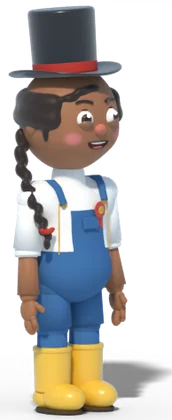
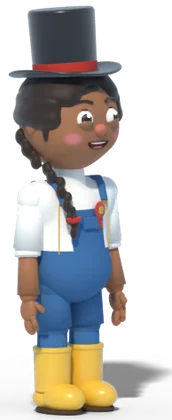
Shop: Rosie's Show day picture made again with her hair under the top hat (as the game's own model has it)
Claude-Session: https://claude.ai/code/session_019sVPTkk8NWGF5qLvLgiKew

Changed region(s): [[0.0581, 0.3405, 0.5523, 0.65], [0.1163, 0.1548, 0.6977, 0.2786], [0.3488, 0.5881, 0.407, 0.619]]

diff --git a/stylized/character/farmer.py b/stylized/character/farmer.py
@@ -1162,6 +1162,11 @@ if __name__ == '__main__':
     R_ = int(os.environ.get('RES', 500))
     scn = reset()
     root, hd = build(look, pose, expr)
+    # (27 Nov 2026, Audrey, the shop's Show day picture: "Looks like the farmer is half bald": Rosie's hair over the top of
+    # her head under a bought hat, as the 3D game has had it since 7 Nov (export_farmer.py), in the pictures too)
+    if look == 'f' and OF().get('hat') not in (None, 'straw', 'sunhat'):
+        hobj = [o for o in hd.children if o.name.startswith('headm')][0]
+        hair_top(look, hd, HC.surface_finder(hobj), mats(look))
     HC.shadow_catcher()
     lighting(scn, sun_dir=(0.5, -0.6, 0.85), sun=3.4)
     bpy.context.view_layer.update()

diff --git a/web3d/README.md b/web3d/README.md
@@ -5795,3 +5795,4 @@ Five runs at 402x874, about ten days each, no page errors in any:
 - 27 Nov 2026, 16:53, her choice "Fix the button first (Recommended)" (her note: "click on the CTA watch them playing but nothing happened. Maybe when someone click it does a focus on 1 chicken on the coop that immediately goes and play"): **"Watch them play" fixed**. The bird had been picked when the card opened and sent without a second look, so if she'd found something else to do (or couldn't get there) the tap did nothing. Now (main.js `watchPlay`), at the tap: a grown bird of the coop free there and then (one at play elsewhere is called over), sent to the new play thing (else another new one, else any of the garden's), or one already at it; the view goes in close (size 1.6) on where she'll play, a move asked for by the tap. Nobody able to (rare): "They're busy just now: they'll play with it in a little while" (`up_watch_later`, six languages). upgradetest: every bird busy at another toy when it's tapped, one still goes to the xylophone, the view in close (en; `watchpics.mjs` pictures in en and fr). Her other idea, a bird getting it wrong at first then learning to play well, comes later, shown as a film first.
 - 27 Nov 2026, 17:35, "Harvesting wheat should be the same as for the beds, not waiting for the farmer please": **the wheat fields sown and harvested at once**, as the beds since 20 Nov: the seed lands and the straw flies from the field itself (`seedsOver`, `harvestPuff`), the field changes there and then; the farmer no longer walks over (main.js `sowWheat`, `harvestWheat`; `farmerWork` is now only for the honey). wheattest (en, fr) updated and passes sideways.
 - 27 Nov 2026, 17:38, "Winter collection message takes too much space on the screen. Shorten it we need to see products": the Seasonal coops shelf's banner is one slim line (the collection, then "📅 On sale until 28 February"), its explanation and big snowflakes gone (what a seasonal coop is stays on each building's page); 31 px high sideways instead of about 160, the first row of buildings whole under it (en, fr).
+- 27 Nov 2026, 17:39, the shop's Show day picture: "Looks like the farmer is half bald": the picture (`web3d/outfits/card_f_show.webp`, made 25 Oct) was older than Rosie's hair over the top of her head under a bought hat (in the 3D game since 7 Nov: export_farmer.py `hair_top`), so under the top hat her scalp showed. `stylized/character/farmer.py` now adds that hair in its portraits too (Rosie, a bought hat other than a straw or sun hat); her Show day portrait made again the same way as before (OUTFIT=show LOOK=f POSE=turn VIEWS=34 RES=500, cropped to 420 px high as farmer_pack.py). Nothing of the farmers' models in the game changed; the other pictures checked (her flat cap, bobble and cowboy hats covered the top already).
